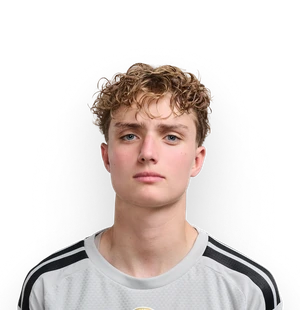
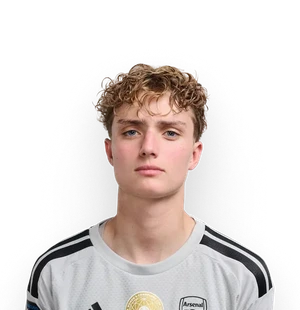
Add files via upload

Changed region(s): [[0.03, 0.2032, 0.96, 1.0], [0.57, 0.929, 0.69, 1.0], [0.3, 0.9581, 0.36, 1.0]]

diff --git a/lineup.js b/lineup.js
@@ -119,7 +119,7 @@ const lFindTeam=id=>lTeams.find(x=>x.id===id);
 const lFindPlayer=id=>lPlayers.find(x=>x.id===id)||lCustomPlayers.find(x=>x.id===id);
 const lNotify=(msg,cls='')=>{const el=L('lineupFeedback');if(!el)return;el.textContent=msg;el.className='feedback '+cls;};
 const lFont=id=>LFONTS.has(id)?id:'Ario';
-let lCustomPlayers=[],lCustomSeq=0,lCustomTargetCategory='ALL';
+let lCustomPlayers=[],lCustomSeq=0,lCustomTargetCategory='ALL',lFirstTeamChoice=false;
 let lTeams=[],lPlayers=[],lLeagues=[],lPalettes=[],lReadyPalettes=[],lPatterns=[],lNationalFlags=[];
 let lPaletteType='team',lPatternType='logo',lPlayerCategory='ALL';
 let lPages=[],lPageIndex=0,lHistLog=[];
@@ -185,7 +185,7 @@ function lLoadJSON(path,fallback){return fetch(path,{cache:'default'}).then(r=>r
 function lImage(src){
  if(!src)return null;
  let o=lImgCache.get(src);if(o)return o.image;
- const im=new Image();im.decoding='async';lImgCache.set(src,{image:im,loaded:false});im.onload=()=>{lImgCache.get(src).loaded=true;lRender();if(L('lineupPagesDialog')?.open){clearTimeout(lThumbnailTimer);lThumbnailTimer=setTimeout(lPageDialogRender,250)}};im.onerror=()=>{lImgCache.get(src).error=true;};im.src=src;return im;
+ const im=new Image();im.decoding='async';lImgCache.set(src,{image:im,loaded:false});im.onload=()=>{lImgCache.get(src).loaded=true;lRender();if(L('lineupPagesDialog')?.open){clearTimeout(lThumbnailTimer);lThumbnailTimer=setTimeout(lPageDialogRender,250)}};im.onerror=()=>{lImgCache.get(src).error=true;};im.src=src.startsWith('assets/players/lineup-calibrated/arsenal-')?src+'?v=6.11':src;return im;
 }
 function lReady(src){const o=lImgCache.get(src);return o?.loaded?o.image:null;}
 function lPrepareImages(){
@@ -221,9 +221,12 @@ function lApplyPalette(id){const p=lPalette(id);lState.paletteId=p.id;for(const 
  lState.cardText=p.text||'#f2bc27';lState.watermarkCustom=false;}
 function lAutoMatch(){const a=lName(lFindTeam(lState.headerRightId)?.name||''),b=lName(lFindTeam(lState.headerLeftId)?.name||'');return [a,b].filter(Boolean).join(' - ');}
 function lTeamChoose(id){
- if(id===lState.teamId){lClose('lineupTeamDialog');return;}
- const editing=lState.slots.some(x=>x.imageKey||x.name);
- if(editing && id!==lState.teamId && !window.confirm('با تغییر تیم، کارتهای بازیکنان فعلی با کارتهای پیشفرض جایگزین میشوند. ادامه میدهید؟'))return;
+ if(id===lState.teamId){lFirstTeamChoice=false;lClose('lineupTeamDialog');return;}
+ // The starter Barcelona cards are placeholders, not work the newcomer chose
+ // to create. Do not warn on the initial, automatically opened team picker.
+ const editing=!lFirstTeamChoice&&lState.slots.some(x=>x.imageKey||x.name);
+ if(editing && !window.confirm('با تغییر تیم، کارتهای بازیکنان فعلی با کارتهای پیشفرض جایگزین میشوند. ادامه میدهید؟'))return;
+ lFirstTeamChoice=false;
  lChange(()=>{
  lState.teamId=id;lState.backgroundLogoId=id==='mixed'?'':id;lState.backgroundPatternType='logo';lState.backgroundPatternId='';
  lState.headerRightId=id==='mixed'?'barcelona':id;
@@ -343,8 +346,9 @@ function lTeamDialogRender(){const q=lFilterText(L('lineupTeamSearch').value);
    .sort((a,b)=>(a.id==='barcelona'?0:a.id==='arsnl'?1:2)-(b.id==='barcelona'?0:b.id==='arsnl'?1:2));
  const promotedIds=new Set(complete.map(t=>t.id));
  const ordered=[...complete,...lTeams.filter(t=>!promotedIds.has(t.id))].filter(t=>lFilterText(t.name).includes(q));
- let html=ordered.map(t=>`<button type="button" data-lteam="${lEscape(t.id)}" class="lineup-team-option ${hasRoster(t)?'complete':''}"><img src="${lEscape(t.image)}" loading="lazy" decoding="async" alt=""><span>${lEscape(t.name)}</span>${hasRoster(t)?'<em>لیست بازیکنان کامل</em>':''}</button>`).join('');
- if(!q||lFilterText('ترکیب منتخب').includes(q))html+='<button type="button" class="lineup-team-option mixed" data-lteam="mixed"><strong>⚽</strong><strong>ترکیب منتخب</strong><small>همه بازیکنان بانک</small></button>';
+ // Mixed is always the FIRST choice, before the completed Barcelona/Arsenal rosters.
+ let html=(!q||lFilterText('ترکیب منتخب').includes(q))?'<button type="button" class="lineup-team-option mixed" data-lteam="mixed"><strong>⚽</strong><strong>ترکیب منتخب</strong><small>همه بازیکنان بانک</small></button>':'';
+ html+=ordered.map(t=>`<button type="button" data-lteam="${lEscape(t.id)}" class="lineup-team-option ${hasRoster(t)?'complete':''}"><img src="${lEscape(t.image)}" loading="lazy" decoding="async" alt=""><span>${lEscape(t.name)}</span>${hasRoster(t)?'<em>لیست بازیکنان کامل</em>':''}</button>`).join('');
  L('lineupTeamGrid').innerHTML=html||'<div class="lineup-empty">تیمی با این نام پیدا نشد.</div>';
 }
 function lLogoDialogRender(){const q=lFilterText(L('lineupLogoSearch').value);L('lineupLogoGrid').innerHTML=lTeams.filter(t=>lFilterText(t.name).includes(q)).map(t=>`<button type="button" class="lineup-logo-option" data-llogo="${lEscape(t.id)}"><img src="${lEscape(t.image)}" loading="lazy" alt=""><span>${lEscape(t.name)}</span></button>`).join('')||'<div class="lineup-empty">نتیجهای پیدا نشد.</div>';}
@@ -397,9 +401,19 @@ function lSetupCustomCrop(){const surface=L('lineupCustomCanvas');
  L('lineupCustomSave').onclick=async()=>{const btn=L('lineupCustomSave');btn.disabled=true;try{
  let media;
  if(lCustomCropFile){media=await lPutMedia(lCustomCropFile);}else if(lPendingCustom){media={key:lPendingCustom.key,url:lPendingCustom.url};}else throw Error('عکس انتخاب نشده');
- lPendingCustom={...media,crop:lSafeCustomCrop(lCustomCropDraft),customId:lPendingCustom?.customId||null};lPendingPlayerId=lPendingCustom.customId;if(lCustomCropFile){L('lineupPopupScale').value='100';L('lineupPopupScalePx').value='180';}L('lineupCustomAdjust').hidden=false;
- if(!L('lineupPopupName').value.trim())L('lineupPopupName').value='بازیکن دلخواه';lPlayersDialogRender();lClose('lineupCustomCropDialog');lCustomCropFile=null;
- lNotify('جایگیری عکس تنظیم شد؛ برای ثبت روی کارت، تیک انتخاب بازیکن را بزنید.');
+ // Saving the crop is the ONLY requirement for adding a session player.
+ // Do not modify the selected poster card; it is a separate, later action.
+ const customId=lPendingCustom?.customId||'session-custom-'+Date.now().toString(36)+'-'+(++lCustomSeq);
+ const crop=lSafeCustomCrop(lCustomCropDraft);
+ const category=['GK','DEF','MID','FWD'].includes(lCustomTargetCategory)?lCustomTargetCategory:lPositionCategory(lSpotList()[lSelected]?.position);
+ if(!L('lineupPopupName').value.trim())L('lineupPopupName').value='بازیکن دلخواه';
+ const entry={id:customId,name:L('lineupPopupName').value.trim(),teamId:lState.teamId,positionGroup:category,flag:lPendingFlagId||'es',image:media.url,imageKey:media.key,customCrop:crop,photoScale:1};
+ const previous=lCustomPlayers.findIndex(p=>p.id===customId);
+ if(previous<0)lCustomPlayers.unshift(entry);else lCustomPlayers[previous]={...lCustomPlayers[previous],...entry};
+ lPendingCustom={...media,crop,customId};lPendingPlayerId=customId;
+ if(lCustomCropFile){L('lineupPopupScale').value='100';L('lineupPopupScalePx').value='180';}L('lineupCustomAdjust').hidden=false;
+ lPlayersDialogRender();lClose('lineupCustomCropDialog');lCustomCropFile=null;
+ lNotify('بازیکن دلخواه در فهرست موقت همین تب ذخیره شد؛ برای قرار دادن روی پوستر، کارت او را انتخاب کنید.');
  }catch(err){lNotify('ذخیره عکس انجام نشد: '+err.message,'error')}finally{btn.disabled=false;}};
  const rectPoint=e=>lCustomPoint(e);
  surface.addEventListener('pointerdown',e=>{if(!lCustomCropDraft)return;e.preventDefault();lCustomCropPointers.set(e.pointerId,rectPoint(e));try{surface.setPointerCapture(e.pointerId)}catch{}lCustomBeginGesture();});
@@ -840,12 +854,13 @@ async function lImport(e){const file=e.target.files?.[0];if(!file)return;try{if(
 async function lInit(){
  const themesafe=(()=>{try{return localStorage.getItem('wosocenter-ui-theme')==='light'}catch{return false}})();document.documentElement.dataset.theme=themesafe?'light':'dark';
  [lTeams,lPlayers,lLeagues,lPalettes,lNationalFlags,lReadyPalettes,lPatterns]=await Promise.all([
- lLoadJSON('data/teams.json',[]),lLoadJSON('data/players.json',[]),lLoadJSON('data/flags.json',[]),lLoadJSON('data/lineup-palettes.json',[]),lLoadJSON('data/national-flags.json',[]),lLoadJSON('data/lineup-ready-palettes.json',[]),lLoadJSON('data/patterns.json',[])]);
+ lLoadJSON('data/teams.json',[]),lLoadJSON('data/players.json?v=6.11',[]),lLoadJSON('data/flags.json',[]),lLoadJSON('data/lineup-palettes.json',[]),lLoadJSON('data/national-flags.json',[]),lLoadJSON('data/lineup-ready-palettes.json',[]),lLoadJSON('data/patterns.json',[])]);
  let persisted=null;try{persisted=JSON.parse(localStorage.getItem(LSTORE)||'null')}catch{}
  let savedPages=null;try{savedPages=JSON.parse(localStorage.getItem(LPAGES_STORE)||'null')}catch{}
  if(savedPages?.pages?.length){lPages=savedPages.pages.map((p,i)=>({id:String(p.id||'p'+i),name:String(p.name||'صفحه '+(i+1)),data:lValidate(p.data||lFresh())}));lPageIndex=Math.max(0,Math.min(lPages.length-1,Number(savedPages.active)||0));lState=lClone(lPages[lPageIndex].data);}
  else{lState=lValidate(persisted||lFresh());lPages=[{id:'p1',name:'صفحه ۱',data:lClone(lState)}];lPageIndex=0;}
  if(!persisted&&!savedPages){lApplyPalette('barcelona');lState.matchup=lAutoMatch();}
+ lFirstTeamChoice=!persisted&&!savedPages?.pages?.length;
  lLoaded=true;
  lDialogEvents();lSetInputs();lSync();lRender();lHistoryButtons();lLoadFont('Ario');await lRestoreMedia();lWarmPlayerImages();
  if(!persisted){lTeamDialogRender();lOpen('lineupTeamDialog');}

diff --git a/lineup.html b/lineup.html
@@ -6,7 +6,7 @@
  <title>شماتیکساز با ۳۱ آرایش فوتبال | WoSoCenter</title>
  <link rel="preload" href="assets/fonts/files/Ario-Dots1.woff2" as="font" type="font/woff2" crossorigin>
  <link rel="stylesheet" href="assets/fonts/fonts.css?v=4.1"><link rel="stylesheet" href="styles.css?v=5.9"><link rel="stylesheet" href="lineup.css?v=6.10.0">
- <script src="lineup.js?v=6.10.0" defer></script>
+ <script src="lineup.js?v=6.11.0" defer></script>
 </head>
 <body class="lineup-page">
 <header class="topbar woso-editor-topbar">
